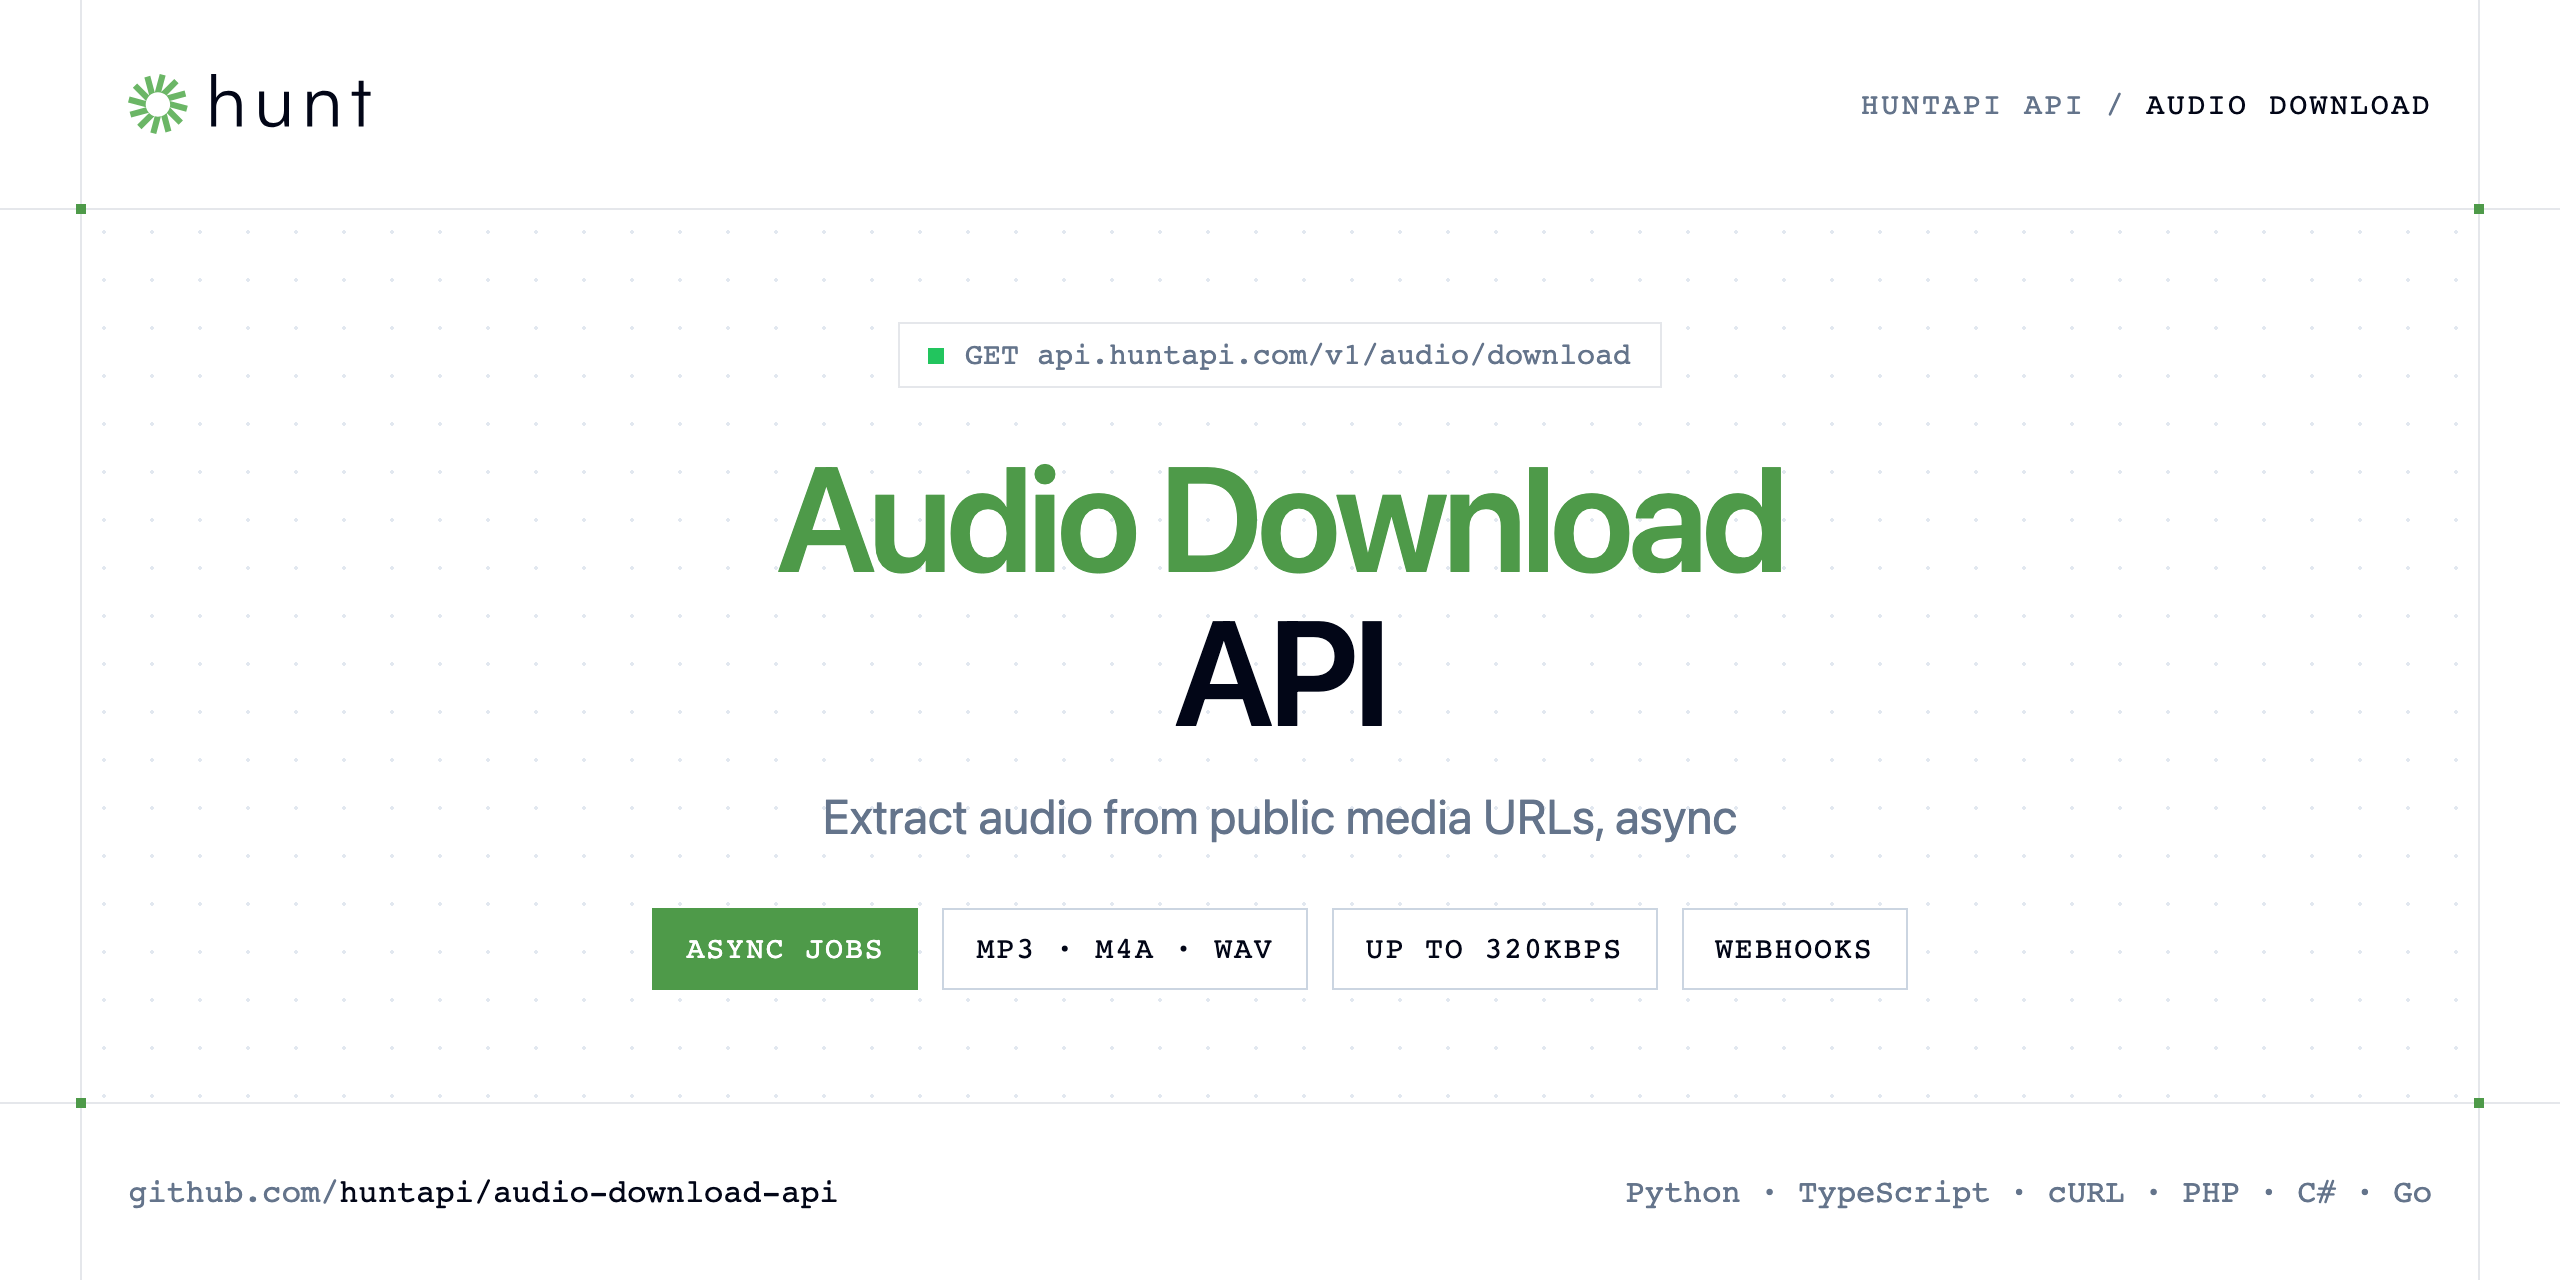
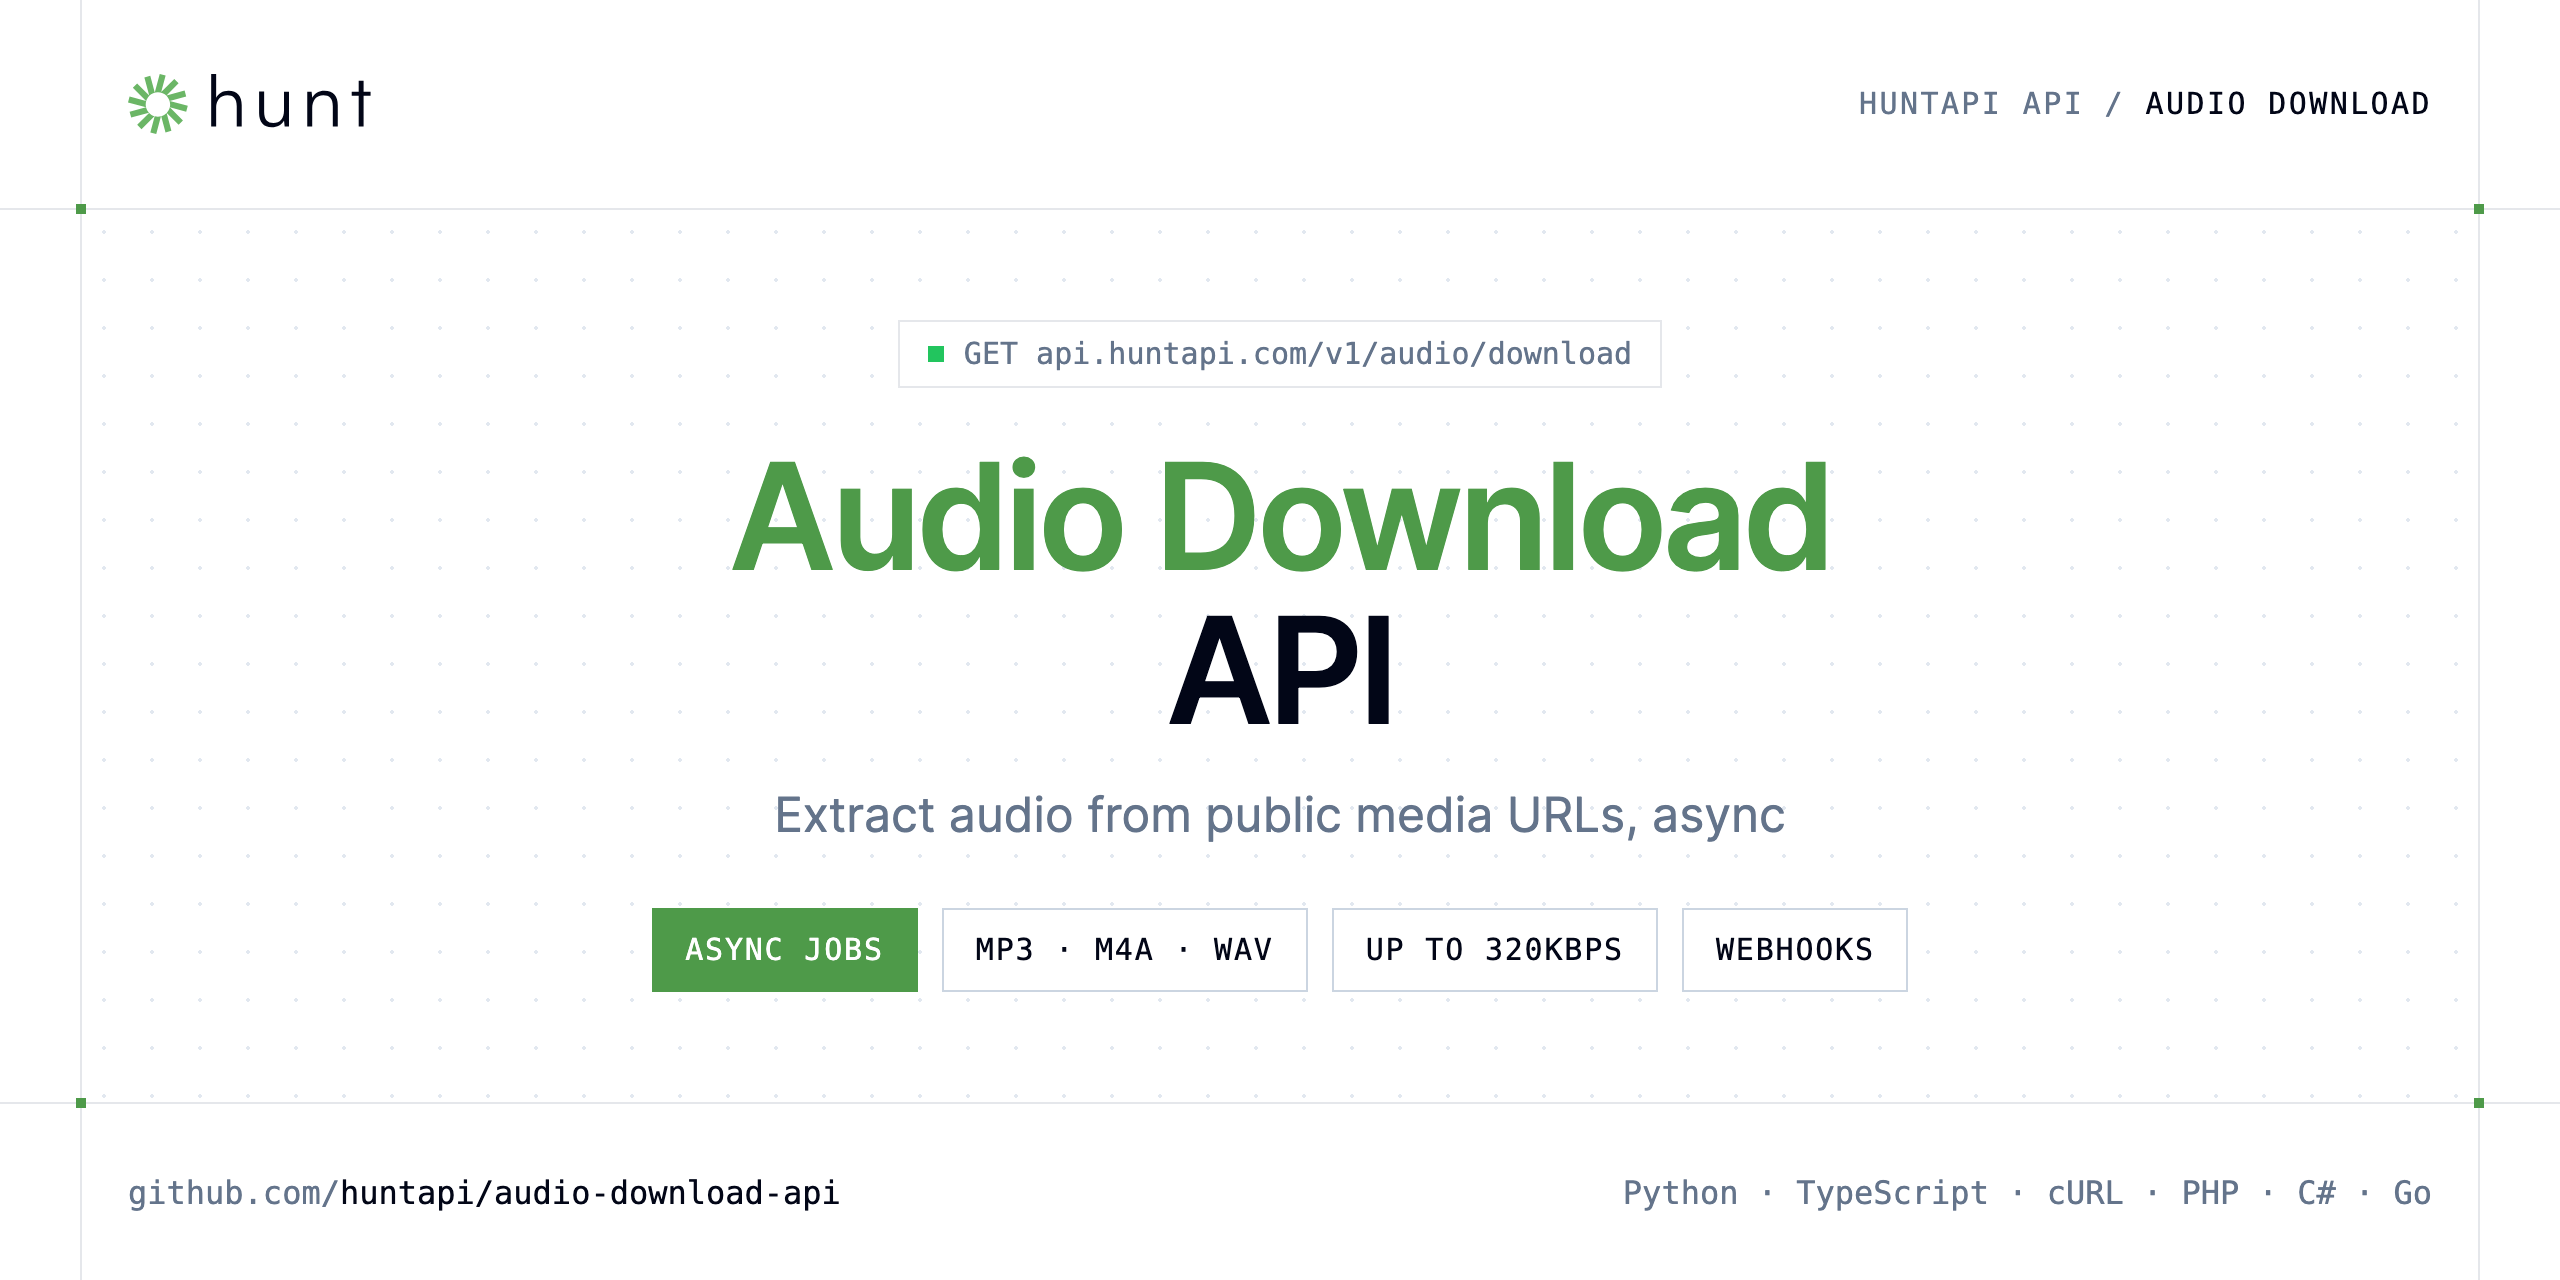
Update Audio Download API examples and docs

diff --git a/examples/java/AudioDownloadExample.java b/examples/java/AudioDownloadExample.java
@@ -45,14 +45,18 @@ public class AudioDownloadExample {
         HttpResponse<byte[]> response = call("GET", "https://api.huntapi.com/v1/audio/download" + (query.isEmpty() ? "" : "?" + query), null);
         String jobId = field(new String(response.body(), StandardCharsets.UTF_8), "job_id");
         Set<String> done = Set.of("CompletedJob", "Error", "NotFound", "BadRequest");
-        String job;
-        while (true) {
-            Thread.sleep(5000);
+        String job = "";
+        String status = "";
+        for (int i = 0; i < 4320 && !done.contains(status); i++) { // give up after 12 hours
+            Thread.sleep(10000);
             job = new String(call("GET", "https://api.huntapi.com/v1/jobs/" + jobId + "", null).body(), StandardCharsets.UTF_8);
-            String status = field(job, "status");
+            status = field(job, "status");
             System.out.println(status);
-            if (done.contains(status)) break;
         }
         System.out.println(job);
+        if (!status.equals("CompletedJob")) {
+            System.err.println("Job " + jobId + " not completed: " + status);
+            System.exit(1);
+        }
     }
 }

diff --git a/examples/csharp/AudioDownload.cs b/examples/csharp/AudioDownload.cs
@@ -18,13 +18,18 @@ if (!response.IsSuccessStatusCode)
 
 var jobId = JsonDocument.Parse(await response.Content.ReadAsStringAsync()).RootElement.GetProperty("job_id").GetString();
 var done = new HashSet<string> { "CompletedJob", "Error", "NotFound", "BadRequest" };
-JsonElement job;
-while (true)
+JsonElement job = default;
+var status = "";
+for (var i = 0; i < 4320 && !done.Contains(status); i++) // give up after 12 hours
 {
-    await Task.Delay(5000);
-    job = JsonDocument.Parse(await http.GetStringAsync($"https://api.huntapi.com/v1/jobs/{jobId}")).RootElement;
-    var status = job.GetProperty("status").GetString()!;
+    await Task.Delay(10000);
+    job = JsonDocument.Parse(await http.GetStringAsync($"https://api.huntapi.com/v1/jobs/{jobId}")).RootElement; // throws on HTTP errors
+    status = job.GetProperty("status").GetString()!;
     Console.WriteLine(status);
-    if (done.Contains(status)) break;
+}
+if (status != "CompletedJob")
+{
+    Console.Error.WriteLine($"Job {jobId} not completed: {status}");
+    Environment.Exit(1);
 }
 Console.WriteLine(job.GetProperty("result"));

diff --git a/examples/php/audio_download.php b/examples/php/audio_download.php
@@ -33,10 +33,16 @@ $query = http_build_query([
 $response = call('GET', 'https://api.huntapi.com/v1/audio/download' . ($query ? '?' . $query : ''));
 
 $jobId = json_decode($response, true)['job_id'];
-do {
-    sleep(5);
+$job = null;
+for ($i = 0; $i < 4320; $i++) { // give up after 12 hours
+    sleep(10);
     $job = json_decode(call('GET', 'https://api.huntapi.com/v1/jobs/' . $jobId . ''), true);
     echo $job['status'], ' ', $job['progress'] ?? '', PHP_EOL;
-} while (!in_array($job['status'], ['CompletedJob', 'Error', 'NotFound', 'BadRequest'], true));
+    if (in_array($job['status'], ['CompletedJob', 'Error', 'NotFound', 'BadRequest'], true)) break;
+}
 
 echo json_encode($job['result'] ?? null, JSON_PRETTY_PRINT | JSON_UNESCAPED_SLASHES), PHP_EOL;
+if (($job['status'] ?? '') !== 'CompletedJob') {
+    fwrite(STDERR, "Job $jobId not completed: " . ($job['status'] ?? 'unknown') . "\n");
+    exit(1);
+}

diff --git a/examples/go/audio_download.go b/examples/go/audio_download.go
@@ -54,10 +54,11 @@ func main() {
 	json.Unmarshal(data, &submitted)
 	jobID := fmt.Sprint(submitted["job_id"])
 	var job map[string]any
-	for {
-		time.Sleep(5 * time.Second)
+	status := ""
+	for i := 0; i < 4320; i++ { // give up after 12 hours
+		time.Sleep(10 * time.Second)
 		json.Unmarshal(call("GET", "https://api.huntapi.com/v1/jobs/"+jobID+"", nil), &job)
-		status := fmt.Sprint(job["status"])
+		status = fmt.Sprint(job["status"])
 		fmt.Println(status, job["progress"])
 		if status == "CompletedJob" || status == "Error" || status == "NotFound" || status == "BadRequest" {
 			break
@@ -65,4 +66,8 @@ func main() {
 	}
 	out, _ := json.MarshalIndent(job["result"], "", "  ")
 	fmt.Println(string(out))
+	if status != "CompletedJob" {
+		fmt.Fprintf(os.Stderr, "job %s not completed: %s\n", jobID, status)
+		os.Exit(1)
+	}
 }

diff --git a/examples/ruby/audio_download.rb b/examples/ruby/audio_download.rb
@@ -23,12 +23,13 @@ uri.query = URI.encode_www_form('query' => 'https://www.youtube.com/watch?v=Z5YP
 response = call("GET", uri.to_s)
 
 job_id = JSON.parse(response).fetch("job_id")
-job = nil
-loop do
-  sleep 5
+job = {}
+4320.times do # give up after 12 hours
+  sleep 10
   job = JSON.parse(call("GET", "https://api.huntapi.com/v1/jobs/#{job_id}"))
   puts "#{job['status']} #{job['progress']}"
   break if ["CompletedJob", "Error", "NotFound", "BadRequest"].include?(job["status"])
 end
 
 puts JSON.pretty_generate(job["result"] || {})
+abort "Job #{job_id} not completed: #{job['status']}" unless job["status"] == "CompletedJob"

diff --git a/README.md b/README.md
@@ -81,14 +81,20 @@ response.raise_for_status()
 
 job_id = response.json()["job_id"]
 
-# Poll the job until it reaches a final status
-while True:
-    job = requests.get(f"https://api.huntapi.com/v1/jobs/{job_id}", headers=HEADERS, timeout=60).json()
+# Poll the job until it reaches a final status (give up after 12 hours)
+for _ in range(4320):
+    time.sleep(10)
+    poll = requests.get(f"https://api.huntapi.com/v1/jobs/{job_id}", headers=HEADERS, timeout=120)
+    poll.raise_for_status()
+    job = poll.json()
     print(job["status"], job.get("progress"))
     if job["status"] in ("CompletedJob", "Error", "NotFound", "BadRequest"):
         break
-    time.sleep(5)
+else:
+    raise SystemExit(f"Job {job_id} still running after 12 hours")
 
+if job["status"] != "CompletedJob":
+    raise SystemExit("Job failed: " + job["status"])
 print(job.get("result"))
 ```
 
@@ -109,12 +115,16 @@ const { job_id: jobId } = (await response.json()) as { job_id: string };
 
 type Job = { status: string; progress?: number; result?: unknown };
 const done = new Set(["CompletedJob", "Error", "NotFound", "BadRequest"]);
-let job: Job;
-do {
-  await new Promise((r) => setTimeout(r, 5000));
-  job = (await (await fetch(`https://api.huntapi.com/v1/jobs/${jobId}`, { headers })).json()) as Job;
+let job: Job | undefined;
+for (let i = 0; i < 4320; i++) { // give up after 12 hours
+  await new Promise((r) => setTimeout(r, 10000));
+  const poll = await fetch(`https://api.huntapi.com/v1/jobs/${jobId}`, { headers });
+  if (!poll.ok) throw new Error(`HTTP ${poll.status}: ${await poll.text()}`);
+  job = (await poll.json()) as Job;
   console.log(job.status, job.progress);
-} while (!done.has(job.status));
+  if (done.has(job.status)) break;
+}
+if (job?.status !== "CompletedJob") throw new Error(`Job ${jobId} not completed: ${job?.status}`);
 
 console.log(job.result);
 ```
@@ -124,6 +134,8 @@ console.log(job.result);
 1. The request returns `{"job_id": "…"}` immediately.
 2. Poll `GET https://api.huntapi.com/v1/jobs/{id}` every few seconds — `status` goes from `Queued` to `Running` (with `progress` 0–100) to a final value: `CompletedJob`, `Error`, `NotFound`, `BadRequest`.
 3. When `status` is `CompletedJob`, read `result` (download link and metadata).
+
+Jobs on very long videos can take up to 12 hours before they time out: the examples poll every 10 seconds and give up after 12 hours.
 
 Prefer push over polling? Pass `webhook_url` and the result is POSTed to your endpoint.
 
